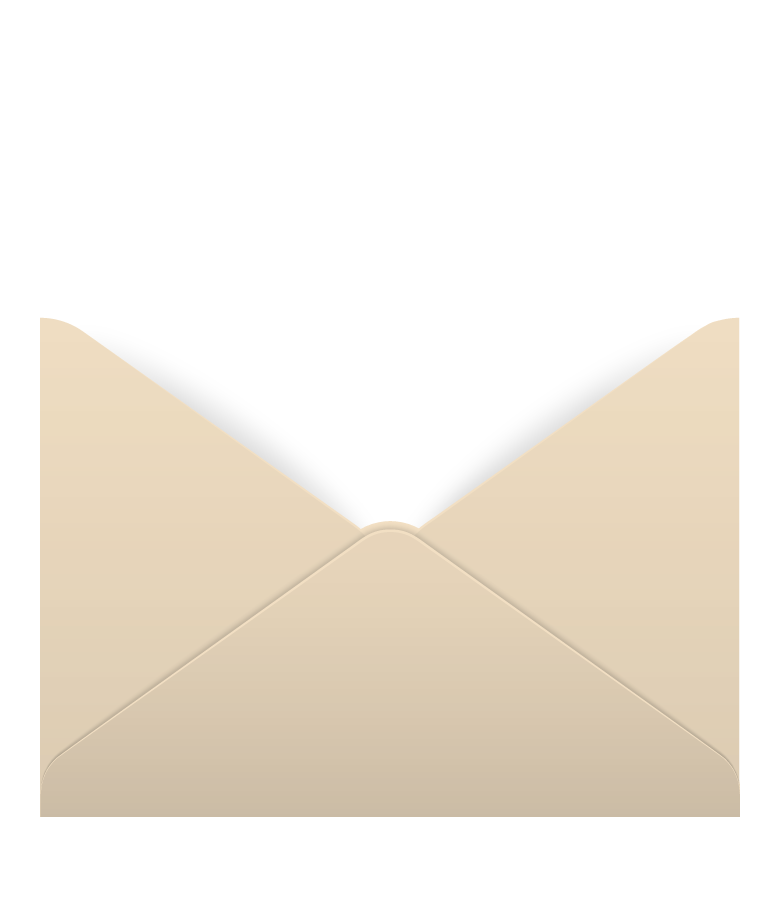
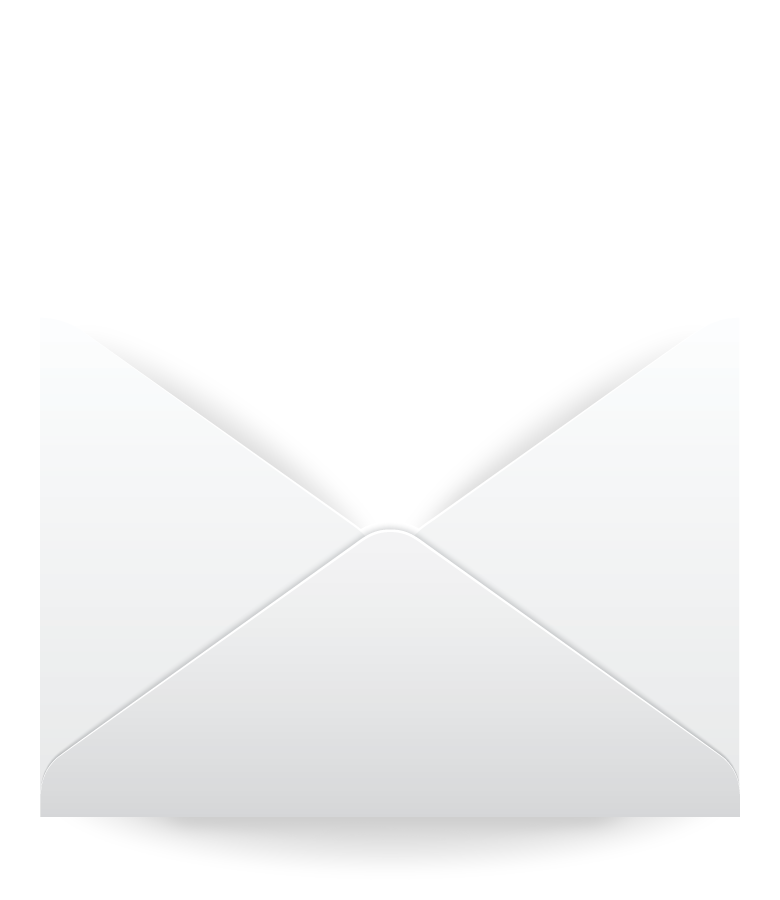
color fixing

diff --git a/css/index.css b/css/index.css
@@ -279,20 +279,22 @@
 
 /* ***안내문 섹션 */
 #notice {
-  background-color: rgba(213, 181, 134, 1);
-  width:200vw;
+  background-color: #ffd9a1;
+  width:max-content
 }
 #part1, #part2 {
   width:100vw;
   height:100vh;
 }
+/* 파트1 주제 */
 #part1 h2 {
   margin-top:6%;
 }
+/* 파트2 부제 */
 #part1 p {
   text-align: center;
 }
-/* 태블릿 */
+/* 파트1 태블릿 */
 #monitor {
   width:50rem;
   transform: translateY(1rem);
@@ -301,7 +303,7 @@
   width:100%;
   pointer-events: none;
 }
-/* qr코드 */
+/* 파트1 qr코드 */
 #qr {
   left:5rem;
   bottom:5rem;
@@ -322,14 +324,14 @@
 
 /* ***애니 섹션 */
 #ani {
-  background-color: rgba(213, 181, 134, .6);
+  background-color: #FFE3BA;
 }
 
 
 
 /* ***초대장 섹션 */
 #invite {
-  background-color: rgba(213, 181, 134, 1);
+  background-color: rgb(255, 217, 161);
 }
 #letter {
   width:100%;
@@ -374,11 +376,11 @@
   line-height: 2rem;
   border-radius: 2rem;
   cursor: pointer;
-  background-color: #eed2a9;
+  background-color: rgba(213, 181, 134, .7);
   font-weight: 400;
 }
 #letter div:nth-child(4) div p:hover {
-  background-color: #D5B586;
+  background-color: rgba(213, 181, 134, 1);
 }
 
 
@@ -387,7 +389,7 @@
 
 /* ***문의 섹션 */
 #contact {
-  background-color: rgba(213, 181, 134, .6);
+  background-color: #FFE3BA;
 }
 /* 제목 */
 #contact h2 {
@@ -416,7 +418,7 @@
 #person-in-charge div div:nth-child(2) {
   height:5rem;
   border-radius: 5rem;
-  background-color: #f3d8ae;
+  background-color: #f0cd98;
   transform: translateX(-3rem);
   padding-left: 2rem;
   box-shadow: 4px 4px 4px rgba(0, 0, 0, .22);

diff --git a/index.html b/index.html
@@ -78,9 +78,9 @@
 
 
   <!-- ***안내문 -->
-  <section id="notice" class="flex justify-content-center align-items-center">
+  <section id="notice" class="flex justify-content-center align-items-center hidden">
     <h2 class="text-indent-9999">성경학교 안내</h2>
-    <div id="part1" class="flex align-items-center flex-direction-column">
+    <!-- <div id="part1" class="flex align-items-center flex-direction-column">
       <h2>ZOOM으로 예배드려요</h2>
       <p>소통을 위해 카메라와 마이크를 꼭 켜주세요!<br>
         줌 설치 및 사용 방법은 아래의 QR코드를 클릭 혹은 스캔해주세요.</p>
@@ -89,8 +89,7 @@
         <a id="qr" class="absolute" href="https://www.youtube.com/watch?v=LwsbBgCzYJM&t=1s" target="_blank">
           <img src="./img/zoom_qr.png" alt="QR">
         </a>
-      </div>
-      
+      </div> -->
     </div>
     <div id="part2">
 
